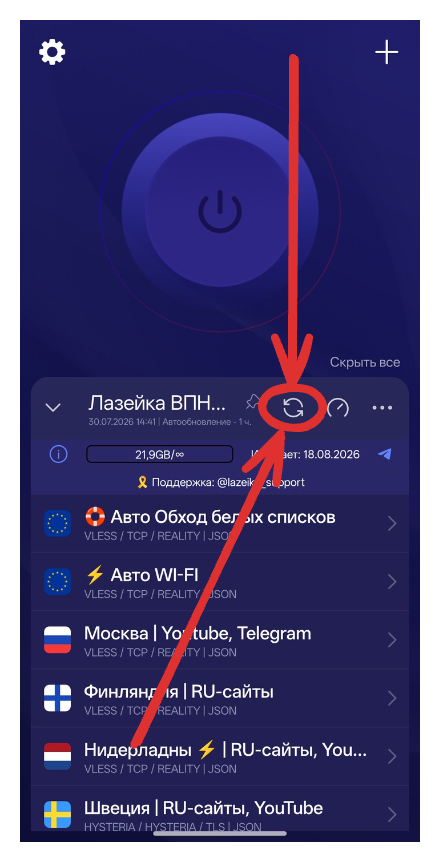
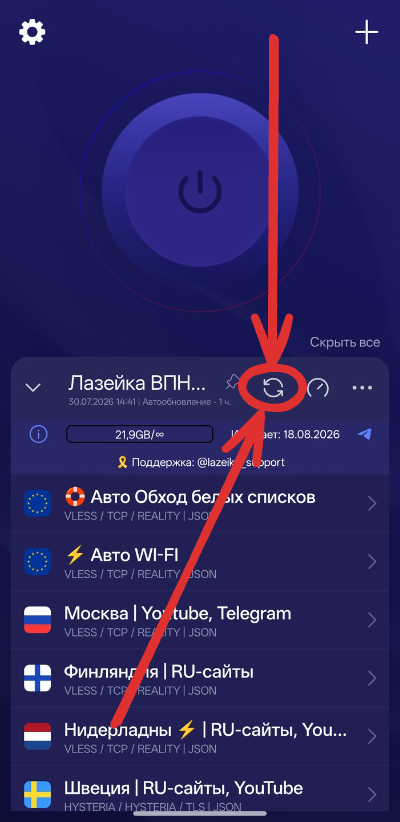
fix(bot): scope update guides to trial conversion

diff --git a/bot/src/index.ts b/bot/src/index.ts
@@ -607,8 +607,6 @@ async function showSetupGuide(ctx: Context, token: string, platform: SetupPlatfo
   const access = await firstSubscriptionAccess(token);
   const recommended = platform === "ios" || platform === "android";
   const appName = app === "incy" ? "INCY" : "HAPP";
-  const imageName = app === "incy" ? "incy-how-to-update.png" : "happ-how-to-update.png";
-  const image = await api.getOnboardingAsset(imageName);
   const rows: ({ text: string; url: string } | { text: string; callback_data: string })[][] = [
     [{ text: `📱 Скачать ${appName}`, url: SETUP_DOWNLOADS[platform][app] }],
   ];
@@ -626,14 +624,15 @@ async function showSetupGuide(ctx: Context, token: string, platform: SetupPlatfo
   const recommendation = recommended && app === "incy"
     ? "\n\n⭐ Для этого устройства настоятельно рекомендуем INCY."
     : "";
-  await ctx.replyWithPhoto(new InputFile(image, imageName), {
-    caption:
-      `#Инструкция\n\nНастройка Лазейка VPN займёт 1–2 минуты 🚀${recommendation}\n\n` +
+  await ctx.reply(
+    `#Инструкция\n\nНастройка Лазейка VPN займёт 1–2 минуты 🚀${recommendation}\n\n` +
       `Шаг 1\nСкачайте ${appName} по первой кнопке.\n\n` +
       "Шаг 2\nНажмите «Добавить ключ», затем включите VPN большой кнопкой внутри приложения." +
       `${access.url ? `\n\nСсылка на подписку для ручной настройки:\n${access.url}` : ""}\n\nЕсли не получается — напишите в поддержку прямо в этом боте.`,
-    reply_markup: { inline_keyboard: rows },
-  });
+    {
+      reply_markup: { inline_keyboard: rows },
+    },
+  );
 }
 
 async function activateTrialForNewClient(token: string, config: Awaited<ReturnType<typeof api.getPublicConfig>>): Promise<void> {
@@ -1426,17 +1425,12 @@ function logoToMediaSource(logo: string | null | undefined): { source: InputFile
 type RichInlineKeyboard = { inline_keyboard: unknown[][] };
 
 /**
- * Публичный URL логотипа для rich `![](url)` (бэкенд отдаёт байты на /api/public/bot-asset/logo.png).
- * Берём logoBot (логотип из админки) → botWelcomeImage. Если ни того ни другого нет — null
- * (картинку не вставляем). `?v=<len>` — cache-bust: Telegram кэширует картинку по URL,
- * при смене логотипа в админке длина меняется → новый URL → Telegram перезапрашивает.
+ * Публичный URL приветственной картинки для главного rich-сообщения.
  */
-function botLogoUrl(config: { publicAppUrl?: string | null; logoBot?: string | null; botWelcomeImage?: string | null } | null | undefined): string | null {
+function botWelcomeAssetUrl(config: { publicAppUrl?: string | null } | null | undefined): string | null {
   const base = (config?.publicAppUrl ?? "").replace(/\/+$/, "");
   if (!base) return null;
-  const logo = config?.logoBot || config?.botWelcomeImage || "";
-  if (!logo) return null;
-  return `${base}/api/public/bot-asset/logo.png?v=${logo.length}`;
+  return `${base}/api/public/bot-asset/onboarding/welcome.png`;
 }
 
 /** Экранирование текста для ячейки rich-таблицы (| и переводы строк ломают разметку). */
@@ -2156,7 +2150,7 @@ composer.command("start", async (ctx) => {
           serviceName: name,
           balance: client?.balance ?? 0,
           currency: client?.preferredCurrency ?? config?.defaultCurrency ?? "usd",
-          logoUrl: botLogoUrl(config),
+          logoUrl: botWelcomeAssetUrl(config),
           allSubs: allSubsRes,
           infoBlock: config?.botInfoBlock ?? null,
           menuTexts: config?.botMenuTexts ?? config?.resolvedBotMenuTexts ?? null,

diff --git a/backend/src/modules/client/client.routes.ts b/backend/src/modules/client/client.routes.ts
@@ -4235,6 +4235,7 @@ clientRouter.post("/payments/balance", async (req, res) => {
   let convertedFromTariffName: string | null = null;
   let convertedDaysForNotify: number | null = null;
   let createdSubscriptionId: string | null = null;
+  let trialToTariff = false;
   // Глобальный тумблер мульти-подписок (single-режим при выкл). Объявлен на уровне
   // хендлера — нужен и в конверт-ветке, и в сообщении/консолидации ниже.
   const multiSubEnabledBal = ((await getSystemConfig().catch(() => null)) as { multiSubscriptionsEnabled?: boolean } | null)?.multiSubscriptionsEnabled ?? true;
@@ -4242,7 +4243,7 @@ clientRouter.post("/payments/balance", async (req, res) => {
   if (extendsSecondarySubId) {
     const sec = await prisma.subscription.findUnique({
       where: { id: extendsSecondarySubId },
-      select: { ownerId: true, giftedToClientId: true },
+      select: { ownerId: true, giftedToClientId: true, trialId: true },
     });
     if (!sec || (sec.ownerId !== clientRaw.id && sec.giftedToClientId !== clientRaw.id)) {
       await prisma.client.update({ where: { id: clientRaw.id }, data: { balance: { increment: tariffPaySnap.amount } } }).catch(() => {});
@@ -4261,6 +4262,7 @@ clientRouter.post("/payments/balance", async (req, res) => {
     );
     isExtendingSecondary = true;
     createdSubscriptionId = extendsSecondarySubId;
+    trialToTariff = sec.trialId != null;
   } else {
     void asAdditional;
     // режим «одна подписка из категории»: если тариф из
@@ -4287,6 +4289,7 @@ clientRouter.post("/payments/balance", async (req, res) => {
       isConverted = activateResult.ok && !convertible.sameTariff;
       isExtendingSecondary = isExtendingSecondary || (activateResult.ok && convertible.sameTariff);
       createdSubscriptionId = convertible.id;
+      trialToTariff = convertible.trialId != null;
       if (isConverted) {
         convertedFromTariffName = convertible.tariffName;
         convertedDaysForNotify = activateResult.ok ? (activateResult.convertedDays ?? null) : null;
@@ -4295,7 +4298,7 @@ clientRouter.post("/payments/balance", async (req, res) => {
       // покупка при активном триале ЗАМЕНЯЕТ его полностью
       // (триал удаляется вместе с Remna-юзером). Выбор триала — replaceTrialSubId.
       const { replaceTrialOnPurchase } = await import("../tariff/tariff-activation.service.js");
-      await replaceTrialOnPurchase(clientRaw.id, replaceTrialSubId ?? null);
+      trialToTariff = (await replaceTrialOnPurchase(clientRaw.id, replaceTrialSubId ?? null)) != null;
       // Любая «новая покупка тарифа» — через единый createAdditionalSubscription.
       // Для свежего клиента она получит subscriptionIndex=0 (= главная). Для уже имеющего
       // подписки — следующий свободный индекс. Без затирания/смешивания.
@@ -4353,6 +4356,7 @@ clientRouter.post("/payments/balance", async (req, res) => {
   if (removeExtrasOnActivate === true) tariffMeta.removeExtrasOnActivate = true;
   // T-fix (11.05.2026): маркер покупки доп. подписки балансом (без gift).
   if (asAdditional && !extendsSecondarySubId) tariffMeta.isAdditionalSubscription = true;
+  if (trialToTariff) tariffMeta.trialToTariff = true;
   const payment = await createPayment({
     data: asPaymentUncheckedCreate({
       clientId: clientRaw.id,

diff --git a/backend/src/modules/tariff/tariff-activation.service.ts b/backend/src/modules/tariff/tariff-activation.service.ts
@@ -1165,7 +1165,14 @@ export async function activateTariffByPaymentId(paymentId: string): Promise<Acti
         price: selectedOption?.price ?? tariff.price,
       }, selectedOption, payment.deviceCount ?? undefined, removeExtrasAfter);
       if (result.ok) {
-        await prisma.payment.update({ where: { id: payment.id }, data: { subscriptionId: extendsSecondaryId } }).catch(() => {});
+        const meta = (() => {
+          try { return payment.metadata ? JSON.parse(payment.metadata) as Record<string, unknown> : {}; } catch { return {}; }
+        })();
+        if (targetSub.trialId) meta.trialToTariff = true;
+        await prisma.payment.update({
+          where: { id: payment.id },
+          data: { subscriptionId: extendsSecondaryId, metadata: JSON.stringify(meta) },
+        }).catch(() => {});
         await resetOneTimeDiscount();
       }
       return result;
@@ -1234,9 +1241,9 @@ export async function activateTariffByPaymentId(paymentId: string): Promise<Acti
     // ── Ветка 2: новая подписка (любая покупка тарифа без extendsSecondaryId) ──
     // покупка при активном триале ЗАМЕНЯЕТ его (триал удаляется,
     // новая подписка занимает слот). Выбор триала — metadata.replaceTrialSubId.
-    if (!isGiftPurchase) {
-      await replaceTrialOnPurchase(client.id, getReplaceTrialSubId(payment.metadata));
-    }
+    const replacedTrialId = !isGiftPurchase
+      ? await replaceTrialOnPurchase(client.id, getReplaceTrialSubId(payment.metadata))
+      : null;
     const result = await createAdditionalSubscription(client.id, {
       id: tariff.id,
       name: tariff.name,
@@ -1253,7 +1260,14 @@ export async function activateTariffByPaymentId(paymentId: string): Promise<Acti
     }, { extraDevices: payment.deviceCount ?? 0, purchasedAsGift: isGiftPurchase, skipConfigCheck: true });
     if (result.ok) {
       await applyTrafficEntitlement(result.data.subscriptionId, entitlement, "NEW_PURCHASE");
-      await prisma.payment.update({ where: { id: payment.id }, data: { subscriptionId: result.data.subscriptionId } }).catch(() => {});
+      const meta = (() => {
+        try { return payment.metadata ? JSON.parse(payment.metadata) as Record<string, unknown> : {}; } catch { return {}; }
+      })();
+      if (replacedTrialId) meta.trialToTariff = true;
+      await prisma.payment.update({
+        where: { id: payment.id },
+        data: { subscriptionId: result.data.subscriptionId, metadata: JSON.stringify(meta) },
+      }).catch(() => {});
       await resetOneTimeDiscount();
       // Single-режим: подчищаем любые прочие подписки клиента (оставляем эту).
       const cfgMs2 = await getSystemConfig().catch(() => null);

diff --git a/backend/src/modules/notification/telegram-notify.service.ts b/backend/src/modules/notification/telegram-notify.service.ts
@@ -28,6 +28,14 @@ export function subscriptionExpiryMarkup(label: string, callbackData = "menu:tar
 export const SUBSCRIPTION_UPDATE_TEXT =
   "Откройте HAPP или INCY и обновите подписку: нажмите кнопку ↻ рядом с её названием. Ссылка останется прежней.";
 
+function isTrialToTariffPayment(metadata: string | null): boolean {
+  try {
+    return JSON.parse(metadata ?? "{}").trialToTariff === true;
+  } catch {
+    return false;
+  }
+}
+
 async function sendSubscriptionUpdateGuides(telegramId: string, token: string): Promise<void> {
   try {
     const form = new FormData();
@@ -381,7 +389,8 @@ export async function notifyTariffActivated(clientId: string, paymentId: string)
     const noteBlock = (isAdminGrant && adminNote)
       ? `\n\n💬 <i>${escapeHtml(adminNote)}</i>`
       : "";
-    const updateBlock = isAdminGrant ? "" : `\n\n${SUBSCRIPTION_UPDATE_TEXT}`;
+    const trialToTariff = !isAdminGrant && isTrialToTariffPayment(payment?.metadata ?? null);
+    const updateBlock = trialToTariff ? `\n\n${SUBSCRIPTION_UPDATE_TEXT}` : "";
     const textClient = `${headline}.${noteBlock}${linkBlock}${updateBlock}`;
     const hasLocations = !!(payment?.tariff?.locations?.trim());
     type Row = ({ text: string; callback_data: string } | { text: string; url: string })[];
@@ -396,7 +405,7 @@ export async function notifyTariffActivated(clientId: string, paymentId: string)
       clientIdForBotToken: clientId,
     });
     const botToken = cfg.telegramBotToken?.trim();
-    if (!isAdminGrant && botToken) await sendSubscriptionUpdateGuides(client.telegramId, botToken);
+    if (trialToTariff && botToken) await sendSubscriptionUpdateGuides(client.telegramId, botToken);
   }
   const clientLabel = formatClientLabel(client);
   const lines = [

diff --git a/bot/src/api.ts b/bot/src/api.ts
@@ -37,7 +37,7 @@ async function fetchJson<T>(path: string, opts?: { method?: string; body?: unkno
   return data as T;
 }
 
-export async function getOnboardingAsset(name: "select-your-device.png" | "happ-how-to-update.png" | "incy-how-to-update.png"): Promise<Uint8Array> {
+export async function getOnboardingAsset(name: "select-your-device.png" | "happ-how-to-update.png" | "incy-how-to-update.png" | "welcome.png"): Promise<Uint8Array> {
   const res = await fetch(`${API_URL}/api/public/bot-asset/onboarding/${name}`, {
     headers: getHeaders(),
   });

diff --git a/backend/src/modules/client/bot-assets.routes.ts b/backend/src/modules/client/bot-assets.routes.ts
@@ -109,6 +109,7 @@ const ONBOARDING_ASSETS = new Set([
   "select-your-device.png",
   "happ-how-to-update.png",
   "incy-how-to-update.png",
+  "welcome.png",
 ]);
 
 botAssetsRouter.get("/bot-asset/onboarding/:name", async (req, res) => {
